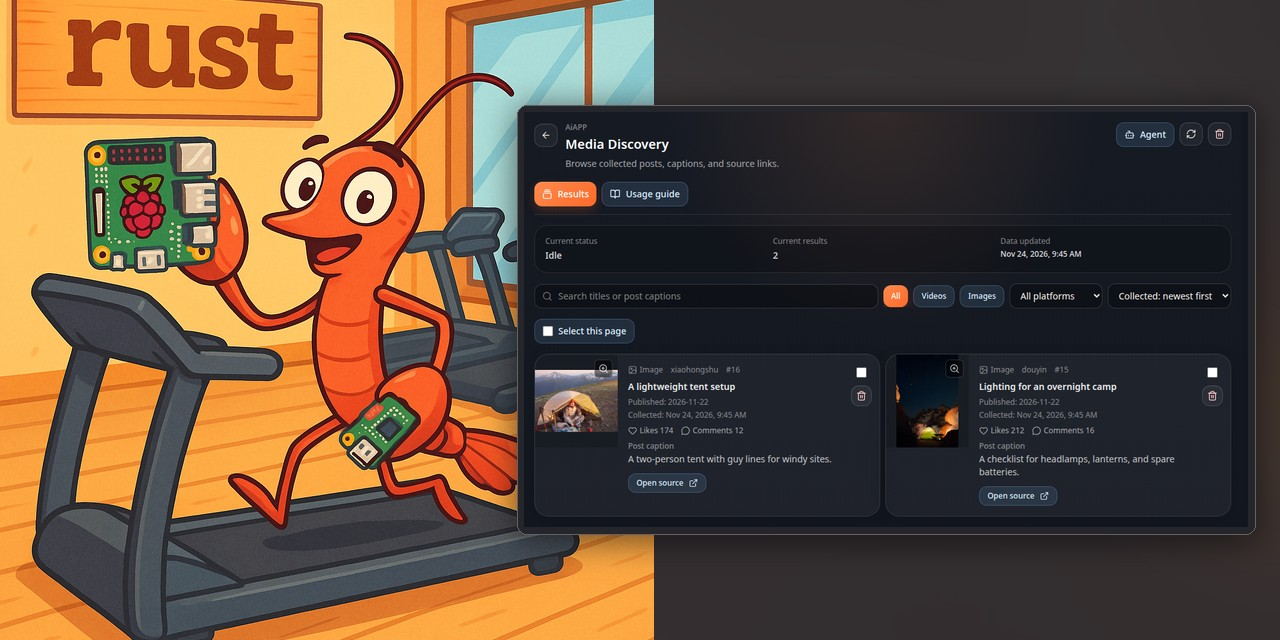
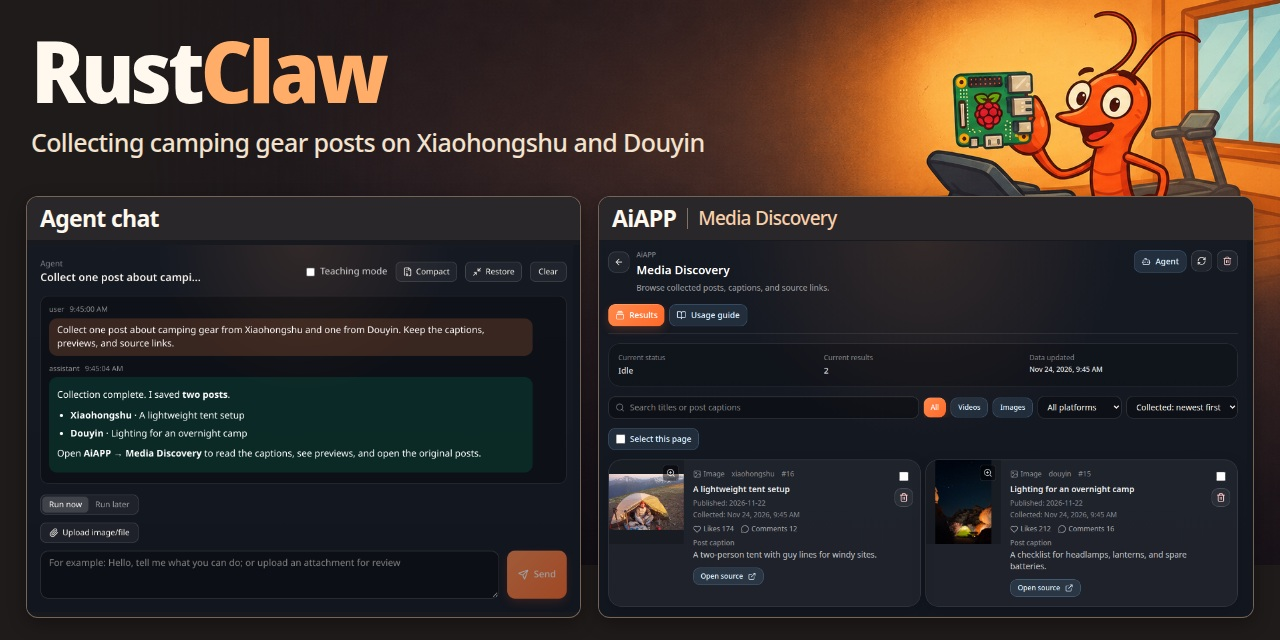
Show Agent chat and AiAPP together in the project covers

diff --git a/site/render.py b/site/render.py
@@ -132,13 +132,13 @@ def build(output: Path):
         (
             "en.html", "en", "", None, f"{brand} | Self-Hosted AI Agent by {owner}",
             f"Self-host {brand} by {owner} on Raspberry Pi, Ubuntu, or macOS. Use MCP tools, search with RAG, and review media results in AiAPP.",
-            f"The {brand} mascot and a Raspberry Pi next to the Media Discovery screen with two example camping posts.",
+            f"The {brand} mascot beside an Agent chat about camping gear and the two posts it found, shown in AiAPP’s Media Discovery results.",
             "project-overview.jpg",
         ),
         (
             "zh.html", "zh-CN", "zh/", None, f"{brand} | 自托管 AI Agent · {owner}",
             f"在树莓派、Ubuntu 或 macOS 上安装 {owner} 的 {brand}。接入 MCP 工具、检索 RAG 知识库，并在 AiAPP 查看媒体结果。",
-            f"{brand} 的吉祥物和树莓派旁边是媒体采集界面，展示两条露营主题的示例帖。",
+            f"{brand} 吉祥物旁，Agent 聊天页展示采集露营装备帖子的请求，AiAPP「媒体发现」页展示对应的两条结果。",
             "project-overview.jpg",
         ),
         (

diff --git a/README.md b/README.md
@@ -10,7 +10,9 @@ Connect external tools through the Model Context Protocol (MCP) and import your 
 
 Use the [signed Release installation guide](docs/release_installation.md) to select a package for a 64-bit Raspberry Pi, Ubuntu x86_64, or an Apple silicon or Intel Mac. The source is available under a [non-commercial license](LICENSE). Commercial use requires prior written permission from the copyright holders.
 
-![The project mascot holds a Raspberry Pi board beside the Media Discovery app showing two example camping posts.](site/assets/examples/en/project-overview.jpg)
+![The project mascot beside an Agent chat about camping gear and the two posts it found, shown in AiAPP’s Media Discovery results.](site/assets/examples/en/project-overview.jpg)
+
+[View the original cover](site/assets/examples/en/project-overview-original.jpg)
 
 <!-- ai-learning-stage: foundations -->
 - Host free-space admission and growth estimates, supervised jobs, typed memory failures, model-reviewed unchanged-summary reuse, incremental encrypted backups with retry recovery, and restart-safe log retention: [operations protection](docs/runtime_operations_protection.md).

diff --git a/README.zh-CN.md b/README.zh-CN.md
@@ -10,7 +10,9 @@
 
 按[签名发布包安装说明](docs/release_installation.zh-CN.md)选择与设备匹配的安装包，支持 64 位树莓派、Ubuntu x86_64，以及配备 Apple 芯片或 Intel 处理器的 Mac。项目采用[非商业源码可用许可](LICENSE)，商业使用须事先取得版权所有者的书面许可。
 
-![项目吉祥物手持树莓派开发板，旁边的媒体采集界面展示了两条露营帖子的示例结果。](site/assets/examples/zh/project-overview.jpg)
+![项目吉祥物旁，Agent 聊天页展示采集露营装备帖子的请求，AiAPP「媒体发现」页展示对应的两条结果。](site/assets/examples/zh/project-overview.jpg)
+
+[查看原版封面](site/assets/examples/zh/project-overview-original.jpg)
 
 <!-- ai-learning-stage: foundations -->
 - 磁盘写入保护与增长预测、后台任务监督、记忆错误分类、模型审核后的未变化摘要复用、增量加密备份与失败补跑、重启日志留存：[运行保护说明](docs/runtime_operations_protection.md)。
